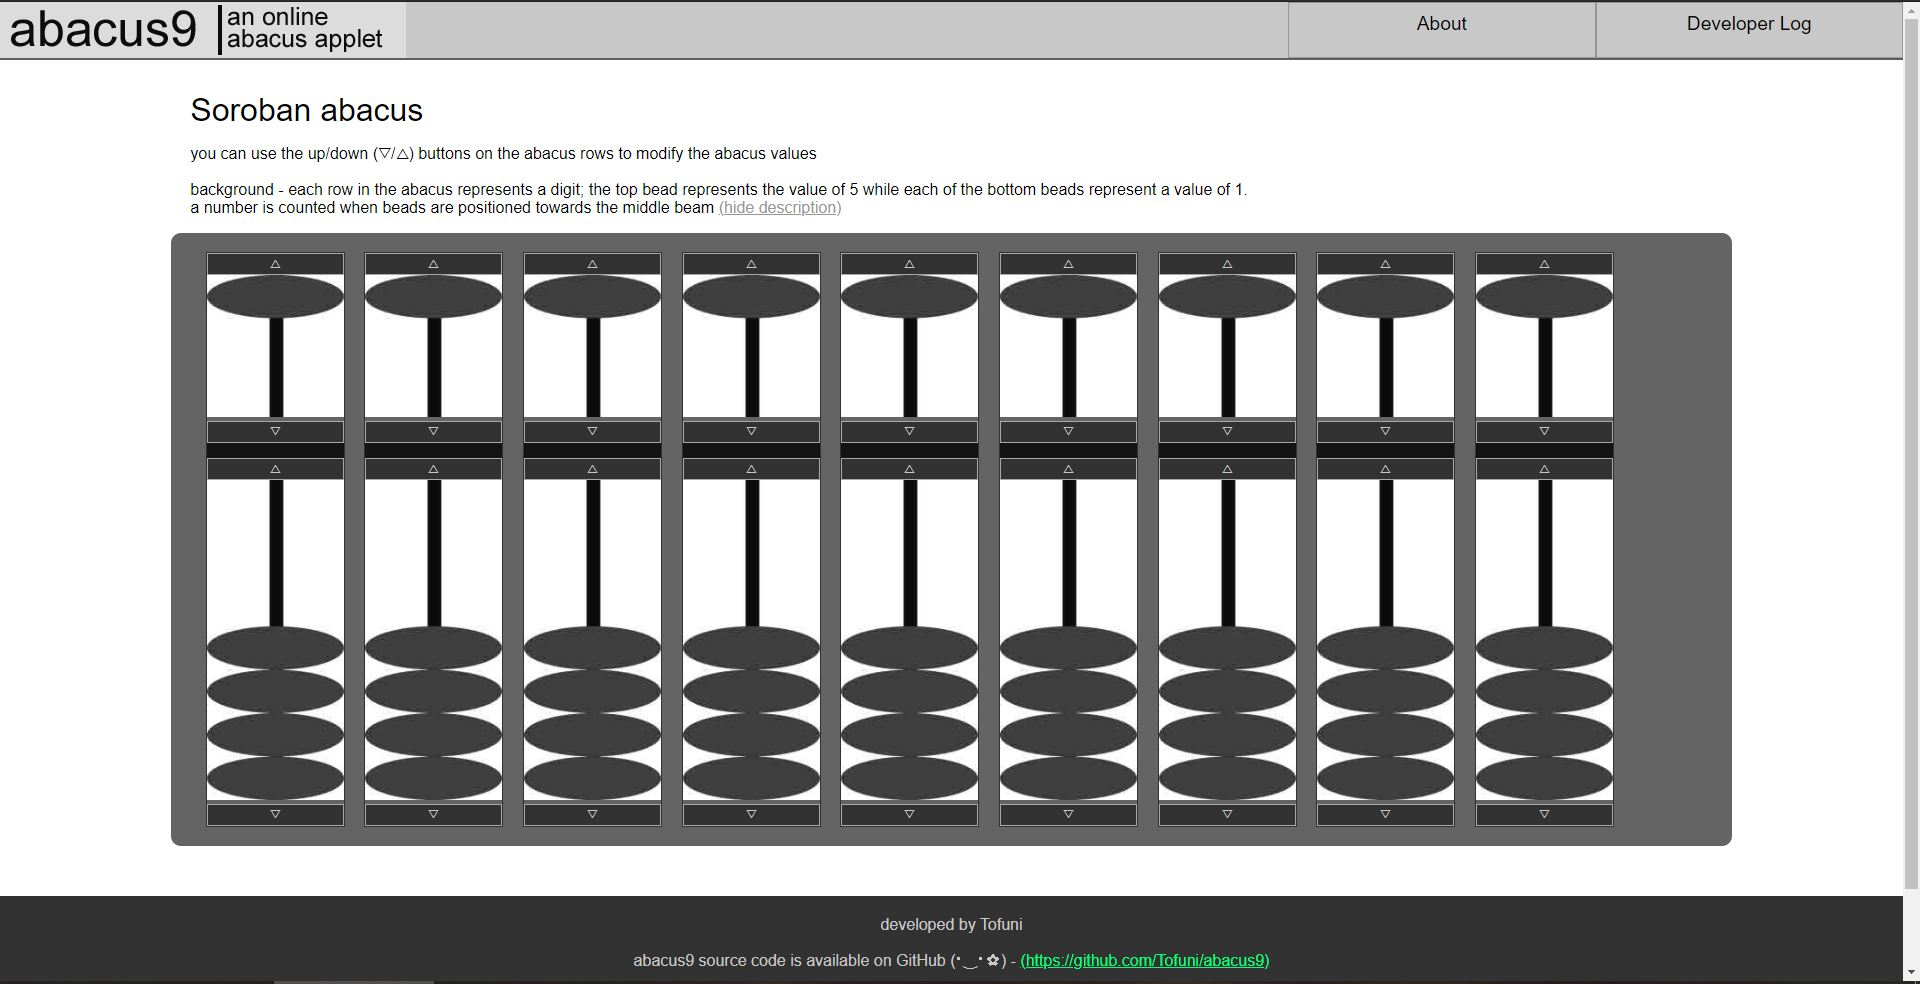
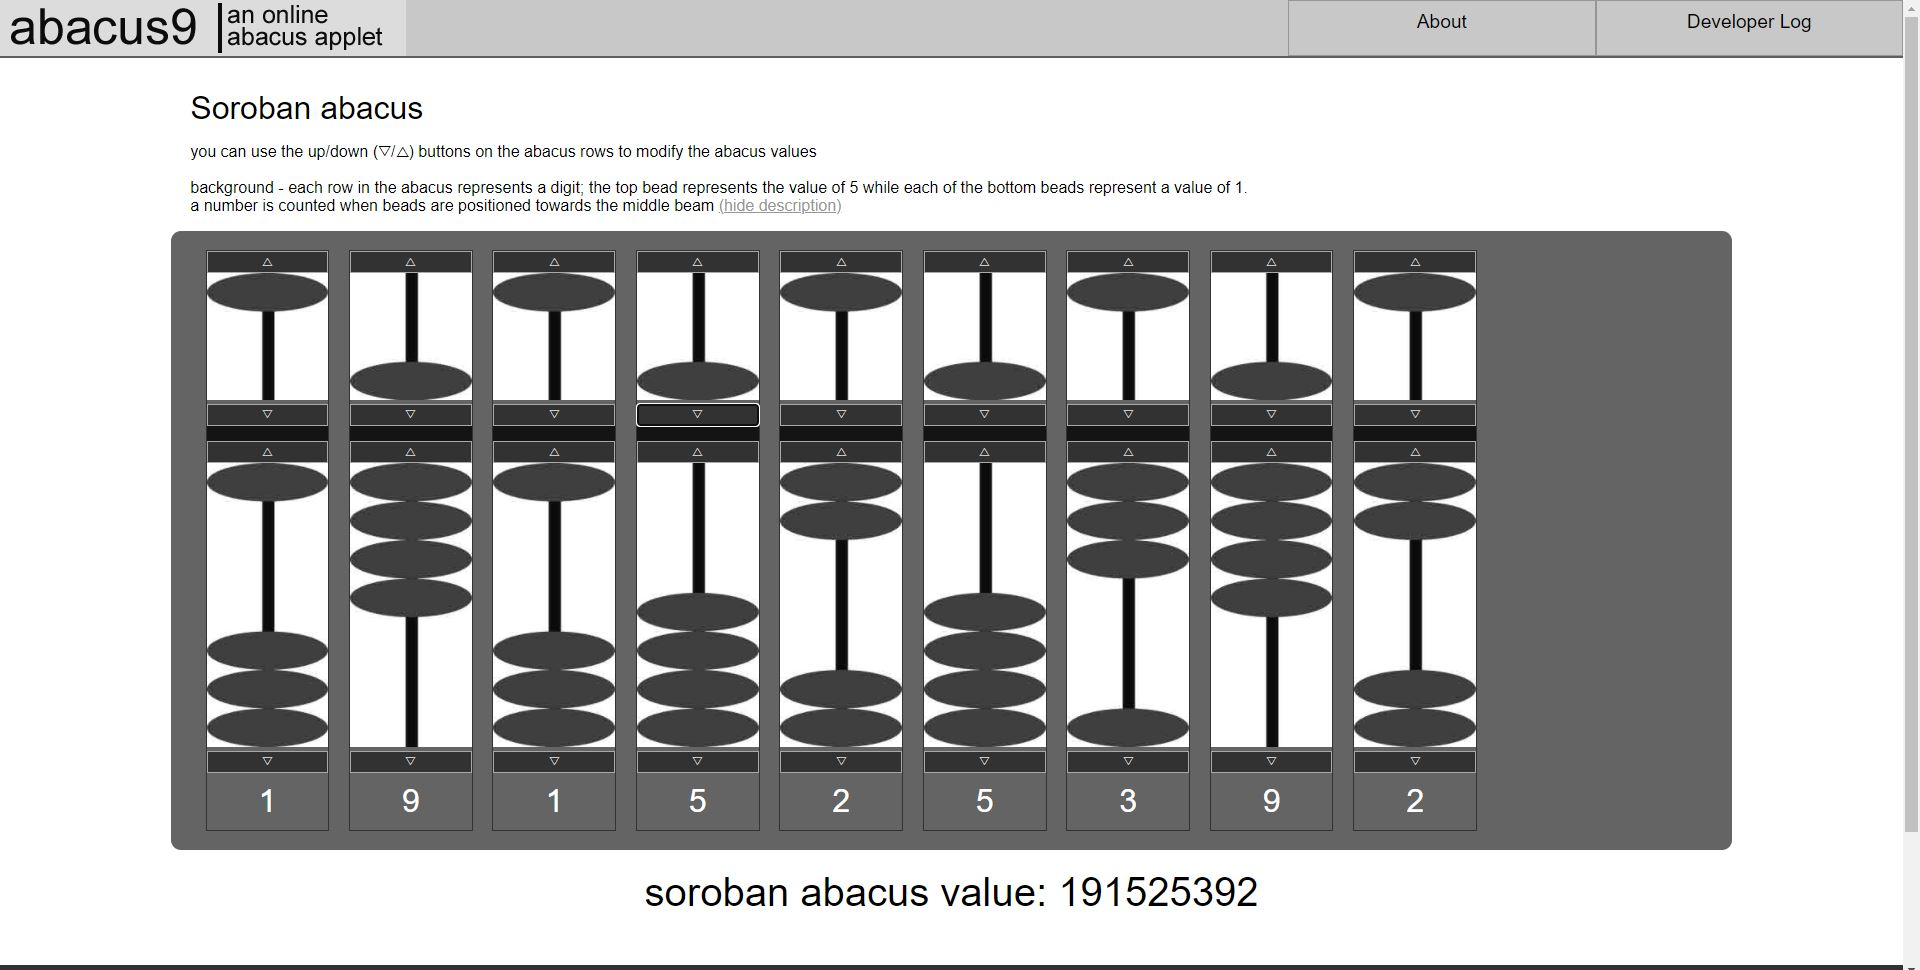
functional abacus

diff --git a/abacus.js b/abacus.js
@@ -2,22 +2,70 @@
 const digits = 9;
 
 let sorobanVals = [0,0,0,0,0,0,0,0,0];
+let sorobanValStates = [{'t':0,'b':0,'v':0},{'t':0,'b':0},{'t':0,'b':0},
+{'t':0,'b':0},{'t':0,'b':0},{'t':0,'b':0},
+{'t':0,'b':0},{'t':0,'b':0},{'t':0,'b':0}];
+let digit = 0;
+let sorobanVal = 0;
+let sorobanValState = 0;
+let sorobanValDisplay = "";
 let soroban = "";
 for (let digit=0; digit<digits; digit+=1) {
     let sorobanRow = `
     <div class="sorobanRow" id="sb_`+digit.toString()+`">
-        <button onclick="subt5('sbt_`+digit.toString()+`')">&#9651</button>
+        <button onclick="subt('sbt_`+digit.toString()+`', 5, 't')">&#9651</button>
         <img draggable="false" class="sorobanTop" id="sbt_`+digit.toString()+`" />
-        <button onclick="add5('sbt_`+digit.toString()+`')">&#9661</button>
+        <button onclick="add('sbt_`+digit.toString()+`', 5, 't')">&#9661</button>
         
         <div class="vPadding"></div>
         
-        <button onclick="add1('sbb_`+digit.toString()+`')">&#9651</button>
+        <button onclick="add('sbb_`+digit.toString()+`', 1, 'b')">&#9651</button>
         <img draggable="false" class="sorobanBottom" id="sbb_`+digit.toString()+`" />
-        <button onclick="subt1('sbb_`+digit.toString()+`')">&#9661</button>
+        <button onclick="subt('sbb_`+digit.toString()+`', 1, 'b')">&#9661</button>
+		<p class="sorobanDigitVal" id="sorobanDigitVal_`+digit.toString()+`">`+sorobanVals[digit.toString()]+`</p>
     </div>`
     soroban += sorobanRow;
     elemSelector("#sorobanAbacus").innerHTML += sorobanRow;
 	elemSelector("#sbt_"+digit.toString()).src = "assets/img/soroban/sbv_00.jpg";
 	elemSelector("#sbb_"+digit.toString()).src = "assets/img/soroban/sbv_0.jpg";
+	elemSelector("#sorobanAbacusValue").innerHTML = "soroban abacus value: 0";
+}
+
+let add = function(id, val, p) {
+	digit = id.split('_')[1];
+	sorobanVal = sorobanVals[digit] + val;
+	sorobanValState = sorobanValStates[digit][p] + val;
+	if ((p=='b'&&sorobanValState>4) || (p=='t'&&sorobanValState>9) || (sorobanVal > 9)) { return; }
+	sorobanValStates[digit][p] += val;
+	sorobanVals[digit] += val;
+	elemSelector("#"+id).src = "assets/img/soroban/sbv_"+sorobanValState+".jpg";
+	displaySorobanValue();
+	elemSelector("#sorobanDigitVal_"+digit).innerText = sorobanVals[digit];
+	console.log(sorobanVals);
+}
+
+let subt = function(id, val, p) {
+	digit = id.split('_')[1];
+	sorobanVal = sorobanVals[digit]-val;
+	sorobanValState = sorobanValStates[digit][p]-val;
+	if ((p=='b'&&sorobanValState<0) || (p=='t'&&sorobanValState<0) || (sorobanVal < 0)) { return; }
+	sorobanValStates[digit][p] -= val;
+	sorobanVals[digit] -= val;
+	if (sorobanValStates[digit][p] == 0 && p=="t") { elemSelector("#"+id).src = "assets/img/soroban/sbv_00.jpg" } 
+	else { elemSelector("#"+id).src = "assets/img/soroban/sbv_"+sorobanValState+".jpg"; }
+	elemSelector("#sorobanDigitVal_"+digit).innerText = sorobanVals[digit];
+	displaySorobanValue();
+	console.log(sorobanVals);
+}
+
+let displaySorobanValue = function() {
+	sorobanValDisplay = "soroban abacus value: ";
+	let sorobanValDisplayNum = "";
+	let f = 0;
+	sorobanVals.forEach(function(v) { 
+		if (f == 0 && v == 0) { return; } 
+		f = 1;
+		sorobanValDisplayNum += v;
+	});
+	elemSelector("#sorobanAbacusValue").innerHTML = sorobanValDisplay + sorobanValDisplayNum;
 }

diff --git a/index.html b/index.html
@@ -20,6 +20,7 @@
 			<p class="sorobanText">you can use the up/down (&#9661/&#9651) buttons on the abacus rows to modify the abacus values</p>
 			<p class="sorobanText" id="sorobanDescription">background - each row in the abacus represents a digit; the top bead represents the value of 5 while each of the bottom beads represent a value of 1.<br>a number is counted when beads are positioned towards the middle beam <span class="eventText" onclick="hideElem(elemSelector('#sorobanDescription'))">(hide description)</span></p>
 			<div id="sorobanAbacus"></div>
+			<div id="sorobanAbacusValue"></div>
 		</div>
 		
 		<div id="footer">

diff --git a/abacus.css b/abacus.css
@@ -113,13 +113,24 @@ body {
 	font-size: 2em;
 	padding: 0;
 }
-.sorobanText {
+.sorobanText, #sorobanAbacusValue {
 	margin-left: 10%;
 }
+#sorobanAbacusValue {
+	margin: 20px 0 0 0;
+	text-align: center;
+	font-size: 2.5em;
+}
+.sorobanDigitVal {
+	text-align: center;
+	margin: 0;
+	padding: 10px;
+	font-size: 2em;
+	color: white;
+}
 .sorobanRow {
-    width: 9%;
+    width: 8%;
     display: inline-block;
-    padding: 0;
     margin-left: 1%;
     border: 1px solid rgb(50,50,50);
 }

diff --git a/README.md b/README.md
@@ -1,4 +1,4 @@
-# Abacus9 | an online abacus applet
+# abacus9 | an online abacus applet
 ## Project currently under development
 Once the project is completed and the applet is hosted on AWS I will update the repo URL with the domain
 
